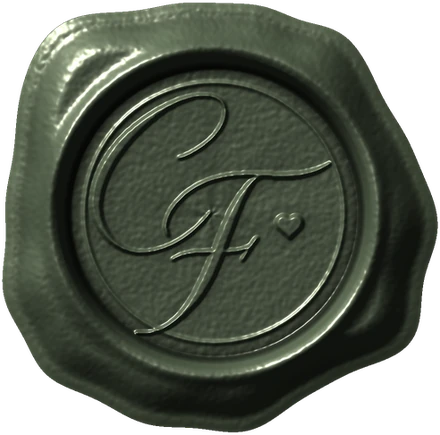
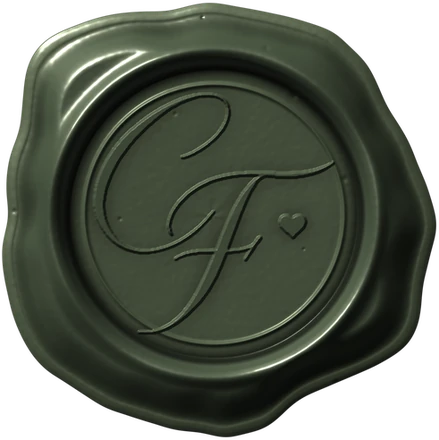
Tira o anel em volta do selo e deixa o selo mais realista
Remove o anel pulsante. O selo ganha saia fina de cera no contorno, cor
que varia com a espessura, brilho largo e reflexos nas cristas, fundo do
carimbo acetinado, monograma mais nítido, poucas bolhinhas e sombra de
contato próxima ao papel.

Claude-Session: https://claude.ai/code/session_01DKYmJULtGc1Pn9fAHmpsL7

diff --git a/assets/style.css b/assets/style.css
@@ -46,7 +46,7 @@ img { display: block; max-width: 100%; }
    ========================================================= */
 .fundo {
   position: fixed; inset: -12%;
-  background: url("convite.jpg?v=2026-11-08-11") center / cover;
+  background: url("convite.jpg?v=2026-11-08-12") center / cover;
   filter: blur(38px) saturate(1.15) brightness(.97);
   transform: scale(1.1);
 }
@@ -118,7 +118,7 @@ img { display: block; max-width: 100%; }
 .env-costas, .env-bolso, .env-aba {
   background-image:
     var(--tom),
-    url("papel-envelope.webp?v=2026-11-08-11");
+    url("papel-envelope.webp?v=2026-11-08-12");
   background-size: 100% 100%, calc(var(--cw) * .34) calc(var(--cw) * .34);
   background-position: 0 0, 0 0;
 }
@@ -160,7 +160,7 @@ img { display: block; max-width: 100%; }
   content: ""; position: absolute; inset: 0;
   background:
     linear-gradient(180deg, rgba(150,108,80,.2), rgba(150,108,80,.06) 55%, rgba(255,246,236,.12)),
-    url("papel-envelope.webp?v=2026-11-08-11") 0 0 / calc(var(--cw) * .34) calc(var(--cw) * .34);
+    url("papel-envelope.webp?v=2026-11-08-12") 0 0 / calc(var(--cw) * .34) calc(var(--cw) * .34);
   opacity: 0; transition: opacity 0s .78s;
 }
 .abrindo .env-aba::after { opacity: 1; }
@@ -169,25 +169,18 @@ img { display: block; max-width: 100%; }
 /* Selo de cera verde-oliva */
 .selo {
   position: absolute; left: 50%; top: 46.5%; z-index: 5;
-  width: 37%; aspect-ratio: 440 / 435;
+  width: 37%; aspect-ratio: 1;
   transform: translate(-50%, -50%);
   border: 0; padding: 0; cursor: pointer;
   border-radius: 50%;
   /* selo de cera em relevo: aro alto de cera empurrada e marca do carimbo rebaixada */
-  background: url("selo.webp?v=2026-11-08-11") center / contain no-repeat;
-  filter: drop-shadow(0 9px 10px rgba(40,46,34,.38)) drop-shadow(0 2px 2px rgba(40,46,34,.35));
+  background: url("selo.webp?v=2026-11-08-12") center / contain no-repeat;
+  filter: drop-shadow(0 1px 1px rgba(40,46,34,.45)) drop-shadow(0 4px 4px rgba(40,46,34,.28)) drop-shadow(0 12px 14px rgba(60,50,35,.22));
   transition: transform .7s var(--mola), opacity .6s;
 }
-.selo::after {
-  content: ""; position: absolute; inset: -6%; border-radius: 50%;
-  border: 1px solid rgba(214,175,110,.6);
-  animation: onda 2.6s ease-out infinite;
-}
-@keyframes onda { from { transform: scale(.75); opacity: 1; } to { transform: scale(1.25); opacity: 0; } }
 .selo:hover { transform: translate(-50%, -50%) scale(1.05) rotate(-3deg); }
 .selo:focus-visible { outline: 2px solid var(--bronze); outline-offset: 8px; }
 .abrindo .selo { transform: translate(-50%, -50%) scale(1.5) rotate(20deg); opacity: 0; pointer-events: none; }
-.abrindo .selo::after { animation: none; opacity: 0; }
 
 /* =========================================================
    Brinde de espumante: as taças se tocam sobre o selo
@@ -244,7 +237,7 @@ img { display: block; max-width: 100%; }
   position: absolute; inset: 0; z-index: 2;
   container-type: inline-size;
   border-radius: 4px; overflow: hidden;
-  background: var(--papel) url("convite.webp?v=2026-11-08-11") center / cover;
+  background: var(--papel) url("convite.webp?v=2026-11-08-12") center / cover;
   box-shadow: 0 2px 6px rgba(122,90,65,.12);
   transform: translateY(0) scale(.94);
   transition: transform 1.15s cubic-bezier(.5, 0, .2, 1), box-shadow 1s;
@@ -359,7 +352,7 @@ html:not(.js) .convite { transform: none; }
 /* Pouco movimento: a abertura do envelope continua (ela só acontece com o clique),
    mas os movimentos contínuos de fundo param. */
 @media (prefers-reduced-motion: reduce) {
-  .luzes span, .dica, .selo::after, .botao::after { animation: none !important; }
+  .luzes span, .dica, .botao::after { animation: none !important; }
   .js .palco:not(.abrindo) .cena { animation: none; }
 }
 

diff --git a/index.html b/index.html
@@ -7,16 +7,16 @@
   <meta name="description" content="Você recebeu um convite! Carolina e Fernando vão se casar em 20 de março de 2027.">
   <meta property="og:title" content="Carolina &amp; Fernando · 20.03.2027">
   <meta property="og:description" content="Você recebeu um convite! Abra o envelope.">
-  <meta property="og:image" content="assets/compartilhar.jpg?v=2026-11-08-11">
+  <meta property="og:image" content="assets/compartilhar.jpg?v=2026-11-08-12">
   <meta property="og:type" content="website">
   <meta name="theme-color" content="#F6E1D0">
   <link rel="icon" type="image/png" href="assets/monograma.png">
-  <link rel="preload" as="image" href="assets/selo.webp?v=2026-11-08-11" type="image/webp">
-  <link rel="preload" as="image" href="assets/convite.webp?v=2026-11-08-11" type="image/webp">
+  <link rel="preload" as="image" href="assets/selo.webp?v=2026-11-08-12" type="image/webp">
+  <link rel="preload" as="image" href="assets/convite.webp?v=2026-11-08-12" type="image/webp">
   <link rel="preconnect" href="https://fonts.googleapis.com">
   <link rel="preconnect" href="https://fonts.gstatic.com" crossorigin>
   <link href="https://fonts.googleapis.com/css2?family=Cinzel:wght@400;500&family=Gilda+Display&family=Montserrat:ital,wght@0,400;0,500;0,600;1,400;1,600&display=swap" rel="stylesheet">
-  <link rel="stylesheet" href="assets/style.css?v=2026-11-08-11">
+  <link rel="stylesheet" href="assets/style.css?v=2026-11-08-12">
   <script>document.documentElement.classList.add("js");</script>
 </head>
 <body>
@@ -107,6 +107,6 @@
     <p class="dica">Toque no selo para abrir</p>
   </main>
 
-  <script src="assets/main.js?v=2026-11-08-11"></script>
+  <script src="assets/main.js?v=2026-11-08-12"></script>
 </body>
 </html>
